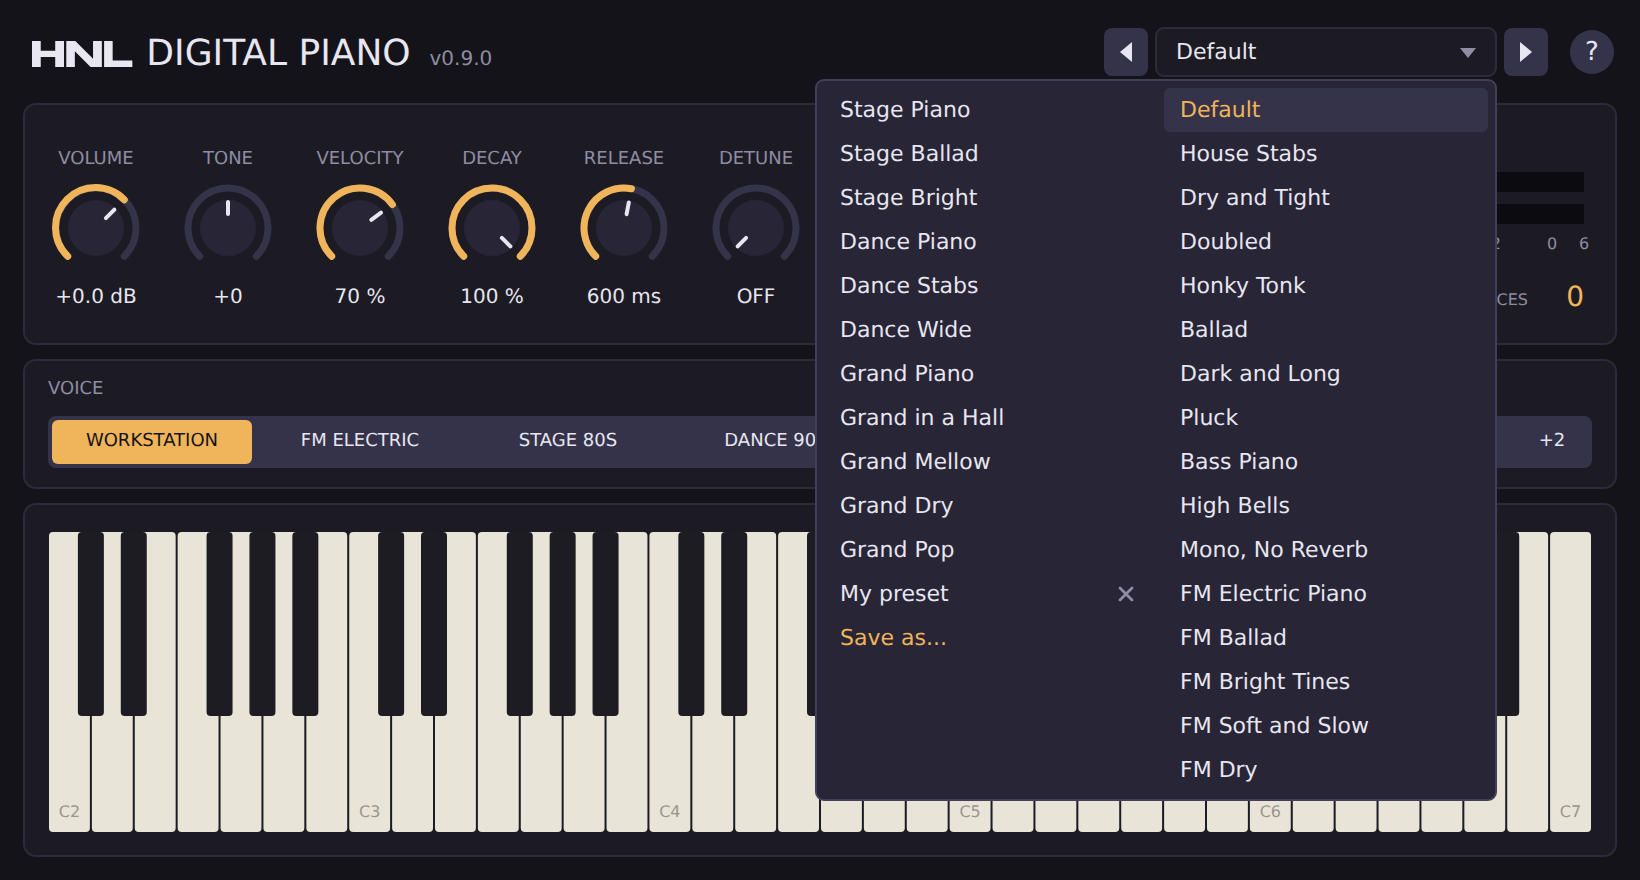
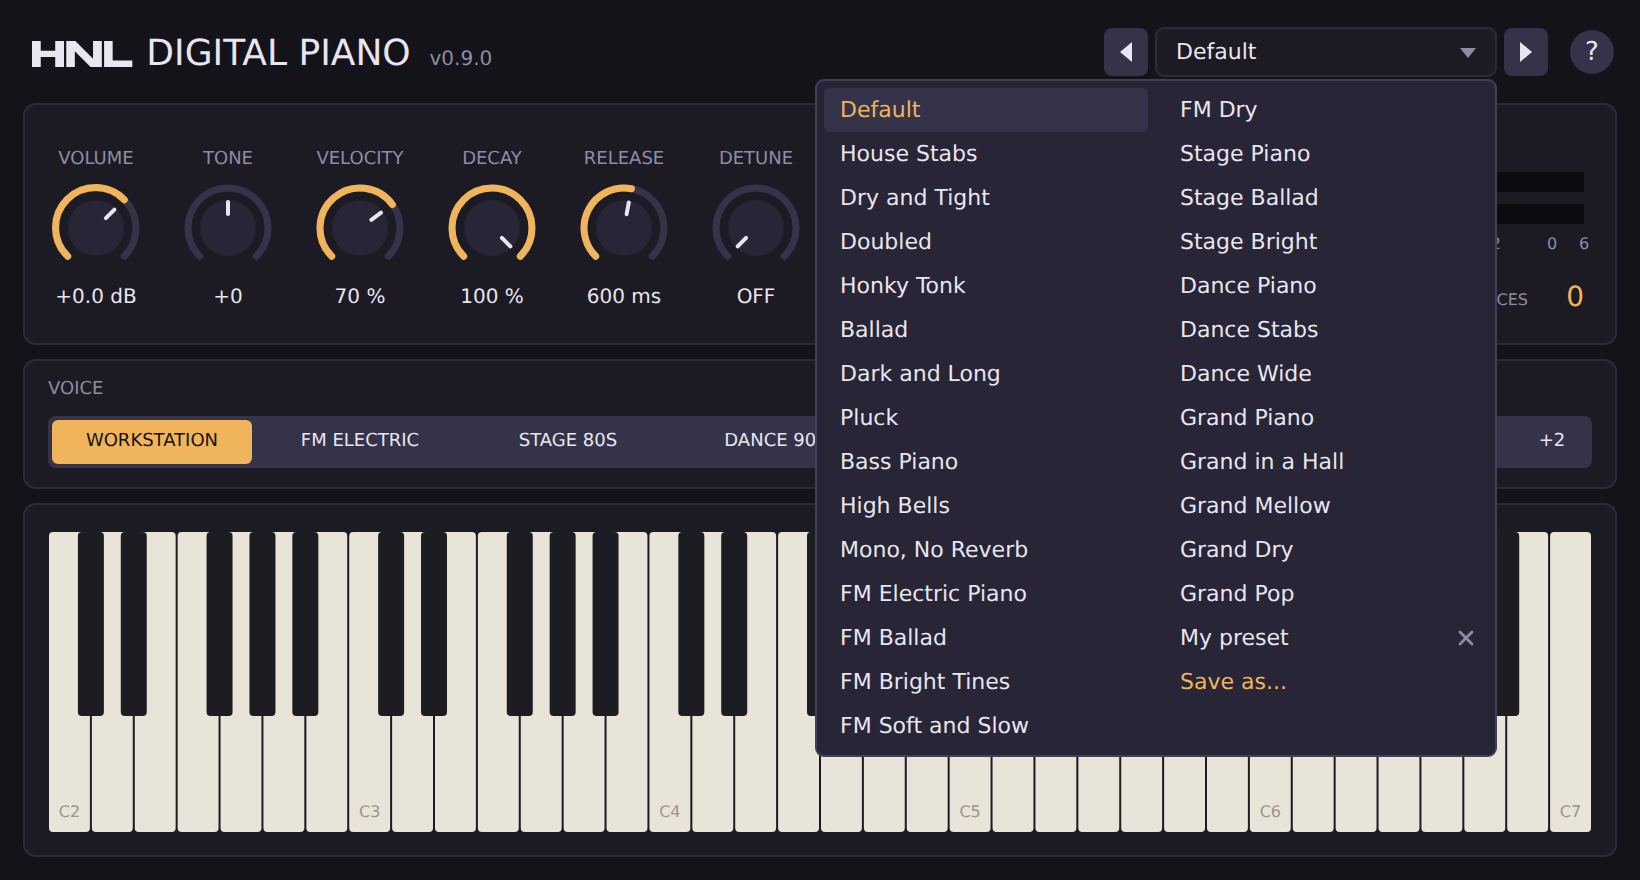
Preset menu: a long list is spread evenly over its columns, read from left to right
A list one row longer than a column left Save as... alone in a column of its own.

diff --git a/common/ui/Widgets.hpp b/common/ui/Widgets.hpp
@@ -349,14 +349,16 @@ private:
  * "Save as..." row; choosing it turns the name into a text box (Enter or the tick saves,
  * Escape or the cross leaves it). Presets from `firstUser` on are the user's own and have a
  * cross to delete them, which asks once more before it does. A list of more than kMaxRows
- * continues in further columns: to the right, or to the left when the bar stands so far to
- * the right that two more columns fit on its left (a bar next to the right edge). A bar that
- * was told the width of its window (moveTo) takes the side with the most room.
+ * is spread evenly over as many columns as it needs, read from left to right, so that no
+ * column is left with a row or two. The columns grow to the right of the bar, or to its left
+ * when the bar stands so far to the right that two more columns fit there (a bar next to the
+ * right edge). A bar that was told the width of its window (moveTo) takes the side with the
+ * most room.
  */
 class PresetBar {
 public:
     static constexpr float kWidth = 222, kHeight = 24, kRow = 22;
-    static constexpr int kMaxRows = 16; // a longer list continues in a further column
+    static constexpr int kMaxRows = 16; // a longer list is spread over more columns
     static constexpr size_t kMaxText = 20; // characters in a name
     /** mouseDown and key results below zero. kSave: text() is the name. kDelete: target() is the preset. kEdit: call startEdit(). */
     enum { kNotMine = -2, kHandled = -1, kSave = -3, kDelete = -4, kEdit = -5 };
@@ -379,13 +381,18 @@ public:
     const std::string& text() const { return text_; }
     int target() const { return target_; }
 
-    /** Where things are, for the tests. */
-    Box rowBox(int row) const {
-        const Box m = menuOrigin();
-        return {m.x + (leftward() ? -1 : 1) * (row / kMaxRows) * name_.w, m.y + 4 + (row % kMaxRows) * kRow, name_.w, kRow};
+    /** How many columns a list of `rows` rows (the presets and Save as...) takes, and how many rows stand in each. */
+    static int columnsFor(int rows) { return rows <= kMaxRows ? 1 : (rows + kMaxRows - 1) / kMaxRows; }
+    static int rowsPerColumn(int rows) { return (rows + columnsFor(rows) - 1) / columnsFor(rows); }
+
+    /** Where things are in a list of `rows` rows, for drawing and for the tests. */
+    Box rowBox(int row, int rows) const {
+        const Box m = menuBox(rows);
+        const int each = rowsPerColumn(rows);
+        return {m.x + (row / each) * name_.w, m.y + 4 + (row % each) * kRow, name_.w, kRow};
     }
-    Box deleteBox(int row) const {
-        const Box r = rowBox(row);
+    Box deleteBox(int row, int rows) const {
+        const Box r = rowBox(row, rows);
         return {r.x + r.w - 26, r.y, 22, kRow};
     }
     const Box& cancelBox() const { return prev_; }
@@ -410,7 +417,7 @@ public:
         }
         if (open_) {
             const int row = rowAt(x, y, count + 1);
-            if (row >= firstUser && row < count && deleteBox(row).contains(x, y)) {
+            if (row >= firstUser && row < count && deleteBox(row, count + 1).contains(x, y)) {
                 if (confirm_ != row) {
                     confirm_ = row;
                     return kHandled;
@@ -520,7 +527,7 @@ public:
         c.strokeWidth(1);
         c.stroke();
         for (int i = 0; i <= count; ++i) {
-            const Box r = rowBox(i);
+            const Box r = rowBox(i, count + 1);
             if (i == hover_) {
                 c.beginPath();
                 c.roundedRect(r.x + 4, r.y, r.w - 8, kRow, 3);
@@ -557,17 +564,17 @@ private:
     bool leftward() const { return canvas_ > 0 ? name_.x > canvas_ - name_.x - name_.w : name_.x >= 2 * name_.w; }
     Box menuOrigin() const { return {name_.x, name_.y + name_.h + 2, 0, 0}; }
     Box menuBox(int rows) const {
-        const int shown = rows < kMaxRows ? rows : kMaxRows, columns = (rows + kMaxRows - 1) / kMaxRows;
+        const int columns = columnsFor(rows);
         const Box o = menuOrigin();
-        return {leftward() ? o.x - name_.w * (columns - 1) : o.x, o.y, name_.w * columns, shown * kRow + 8};
+        return {leftward() ? o.x - name_.w * (columns - 1) : o.x, o.y, name_.w * columns, rowsPerColumn(rows) * kRow + 8};
     }
     int rowAt(float x, float y, int rows) const {
         const Box m = menuBox(rows);
         if (!m.contains(x, y)) return -1;
-        const int across = static_cast<int>((x - m.x) / name_.w), columns = (rows + kMaxRows - 1) / kMaxRows;
-        const int row = static_cast<int>((y - m.y - 4) / kRow), column = leftward() ? columns - 1 - across : across;
-        if (row < 0 || row >= kMaxRows) return -1;
-        const int index = column * kMaxRows + row;
+        const int column = static_cast<int>((x - m.x) / name_.w), each = rowsPerColumn(rows);
+        const int row = static_cast<int>((y - m.y - 4) / kRow);
+        if (row < 0 || row >= each) return -1;
+        const int index = column * each + row;
         return index < 0 || index >= rows ? -1 : index;
     }
 

diff --git a/common/tests/presets_test.cpp b/common/tests/presets_test.cpp
@@ -149,6 +149,28 @@ static void testNoFolder() {
     check(list.count() == 2 && list.save("Nowhere", values) == -1 && list.count() == 2, "a folder that cannot be made: saving fails, nothing else does");
 }
 
+/** A list too long for one column is spread evenly, so that Save as... never stands in a column of its own. */
+static void testLongList() {
+    typedef hnl::ui::PresetBar Bar;
+    check(Bar::columnsFor(Bar::kMaxRows) == 1 && Bar::rowsPerColumn(Bar::kMaxRows) == Bar::kMaxRows, "long list: up to the most rows, one column");
+    check(Bar::columnsFor(17) == 2 && Bar::rowsPerColumn(17) == 9, "long list: 17 rows are 9 and 8, not 16 and 1");
+    check(Bar::columnsFor(48) == 3 && Bar::rowsPerColumn(48) == 16, "long list: the fullest list is three full columns");
+    for (float barX : {100.0f, 552.0f}) { // columns to the right of the bar, and to its left
+        Bar bar(barX, 10);
+        const hnl::ui::Box name = bar.nameBox();
+        const int count = 16; // rows 0..15 presets, row 16 "Save as..."
+        const hnl::ui::Box first = bar.rowBox(0, count + 1), ninth = bar.rowBox(8, count + 1), tenth = bar.rowBox(9, count + 1), save = bar.rowBox(count, count + 1);
+        check(ninth.x == first.x && tenth.x == first.x + first.w && tenth.y == first.y, "long list: the tenth row starts the second column, to the right of the first");
+        check(save.x == tenth.x && save.y == first.y + 7 * Bar::kRow, "long list: Save as... is the eighth row of the second column");
+        bar.mouseDown(name.x + 20, name.y + 10, 0, count, count, true);
+        check(bar.mouseDown(save.x + 30, save.y + 11, 0, count, count, true) == Bar::kEdit, "long list: a click on it asks for a name");
+        bar.mouseDown(name.x + 20, name.y + 10, 0, count, count, true);
+        check(bar.mouseDown(tenth.x + 30, tenth.y + 11, 0, count, count, true) == 9, "long list: a click on the tenth row picks the tenth preset");
+        bar.mouseDown(name.x + 20, name.y + 10, 0, count, count, true);
+        check(bar.mouseDown(save.x + 30, save.y + Bar::kRow + 11, 0, count, count, true) < 0 && !bar.isOpen(), "long list: the empty place under it picks nothing");
+    }
+}
+
 static void testBar() {
     typedef hnl::ui::PresetBar Bar;
     Bar bar(100, 10);
@@ -160,25 +182,25 @@ static void testBar() {
 
     check(bar.mouseDown(5, 5, 0, count, firstUser, true) == Bar::kNotMine, "bar: a click elsewhere is not its business");
     check(bar.mouseDown(nx, ny, 0, count, firstUser, true) == Bar::kHandled && bar.isOpen(), "bar: the name opens the list");
-    centre(bar.rowBox(4), x, y);
+    centre(bar.rowBox(4, count + 1), x, y);
     check(bar.mouseDown(x, y, 0, count, firstUser, true) == 4 && !bar.isOpen(), "bar: a row picks its preset");
 
     bar.mouseDown(nx, ny, 0, count, firstUser, true);
-    centre(bar.deleteBox(4), x, y);
-    x = bar.deleteBox(4).x + 11;
+    centre(bar.deleteBox(4, count + 1), x, y);
+    x = bar.deleteBox(4, count + 1).x + 11;
     check(bar.mouseDown(x, y, 0, count, firstUser, true) == Bar::kHandled && bar.isOpen(), "bar: the cross asks first");
     check(bar.mouseDown(x, y, 0, count, firstUser, true) == Bar::kDelete && bar.target() == 4 && !bar.isOpen(), "bar: the cross again deletes");
     bar.mouseDown(nx, ny, 0, count, firstUser, true);
     bar.mouseDown(x, y, 0, count, firstUser, true);
-    centre(bar.rowBox(3), x, y);
+    centre(bar.rowBox(3, count + 1), x, y);
     check(bar.mouseDown(x, y, 0, count, firstUser, true) == 3, "bar: after the question a click on another row just picks it");
     bar.mouseDown(nx, ny, 0, count, firstUser, true);
-    x = bar.deleteBox(1).x + 11;
-    y = bar.deleteBox(1).y + 11;
+    x = bar.deleteBox(1, count + 1).x + 11;
+    y = bar.deleteBox(1, count + 1).y + 11;
     check(bar.mouseDown(x, y, 0, count, firstUser, true) == 1, "bar: a factory preset has no cross");
 
     bar.mouseDown(nx, ny, 0, count, firstUser, false);
-    centre(bar.rowBox(count), x, y);
+    centre(bar.rowBox(count, count + 1), x, y);
     check(bar.mouseDown(x, y, 0, count, firstUser, false) == Bar::kHandled && !bar.isEditing(), "bar: Save as does nothing when the list is full");
     bar.mouseDown(nx, ny, 0, count, firstUser, true);
     check(bar.mouseDown(x, y, 0, count, firstUser, true) == Bar::kEdit, "bar: Save as asks for a name");
@@ -226,6 +248,7 @@ int main() {
     testList(dir);
     testNoFolder();
     testBar();
+    testLongList();
     fs::remove_all(dir);
     std::printf("%s\n", failures ? "FAILED" : "ALL PASSED");
     return failures ? 1 : 0;

diff --git a/common/tests/ui_presets_test.cpp b/common/tests/ui_presets_test.cpp
@@ -108,7 +108,7 @@ int main() {
     // Save as..., type a name, Enter.
     click(ui, bar(ui).nameBox());
     check(shows(ui, "Save as..."), "the list ends with Save as...");
-    click(ui, bar(ui).rowBox(factory));
+    click(ui, bar(ui).rowBox(factory, factory + 1));
     check(shows(ui, "My preset|") && ui->window.focused, "Save as... opens a name box with a suggestion and takes the keyboard");
     for (int i = 0; i < 9; ++i) key(ui, 0x08);
     type(ui, "Mix/ A");
@@ -122,12 +122,12 @@ int main() {
     check(shows(ui, "Mix A *"), "a moved control puts a * after the user's preset too");
     ui->sentParameters.clear();
     click(ui, bar(ui).nameBox());
-    click(ui, bar(ui).rowBox(factory));
+    click(ui, bar(ui).rowBox(factory, factory + 2));
     check(sent(ui, a, -1e9f) == aSaved && shows(ui, "Mix A"), "choosing the saved preset sends the saved value");
 
     // A factory preset, then the user's one through the arrows.
     click(ui, bar(ui).nameBox());
-    click(ui, bar(ui).rowBox(0));
+    click(ui, bar(ui).rowBox(0, factory + 2));
     check(ui->sentState == std::string("preset=") + presets::kAll[0].name, "factory presets still load");
     ui->sentParameters.clear();
     click(ui, bar(ui).cancelBox()); // the previous arrow: from the first to the last, the saved one
@@ -146,21 +146,21 @@ int main() {
 
     // Without a keyboard: the tick saves under the suggested name.
     click(other, bar(other).nameBox());
-    click(other, bar(other).rowBox(factory + 1));
+    click(other, bar(other).rowBox(factory + 1, factory + 2));
     click(other, bar(other).saveBox());
     check(fs::exists(dir / "My preset.hnlpreset") && other->sentState == "preset=My preset", "the tick saves without a single key");
 
     // The first window sees it when its list is opened, and can delete it.
     click(ui, bar(ui).nameBox());
     check(shows(ui, "My preset"), "the first window lists what the second saved");
-    click(ui, bar(ui).deleteBox(factory + 1), 0.5f);
+    click(ui, bar(ui).deleteBox(factory + 1, factory + 3), 0.5f);
     check(fs::exists(dir / "My preset.hnlpreset") && shows(ui, "Delete? Click x again"), "the cross asks before it deletes");
-    click(ui, bar(ui).deleteBox(factory + 1), 0.5f);
+    click(ui, bar(ui).deleteBox(factory + 1, factory + 3), 0.5f);
     check(!fs::exists(dir / "My preset.hnlpreset") && fs::exists(dir / "Mix A.hnlpreset"), "the cross again deletes that preset and no other");
 
     // Escape and a click elsewhere leave the name box without saving.
     click(ui, bar(ui).nameBox());
-    click(ui, bar(ui).rowBox(factory + 1));
+    click(ui, bar(ui).rowBox(factory + 1, factory + 2));
     type(ui, "zzz");
     check(key(ui, 0x1B) && !fs::exists(dir / "Mix Azzz.hnlpreset") && shows(ui, "Mix A"), "Escape saves nothing");
     check(!key(ui, 0x1B) && !key(ui, 'a'), "keys go back to the host when no name is being typed");
@@ -168,7 +168,7 @@ int main() {
     // Saving over the user's own preset keeps one file.
     ui->parameterChanged(a, info(a).max);
     click(ui, bar(ui).nameBox());
-    click(ui, bar(ui).rowBox(factory + 1));
+    click(ui, bar(ui).rowBox(factory + 1, factory + 2));
     check(shows(ui, "Mix A|"), "Save as... on the user's preset suggests its own name");
     key(ui, 0x0D);
     int files = 0;

diff --git a/plugins/hnl-bus-compressor/tests/preview.cpp b/plugins/hnl-bus-compressor/tests/preview.cpp
@@ -50,8 +50,8 @@ int main(int argc, char** argv) {
         click.pos.y = 26;
         ui->onMouse(click);
         const int row = presets::list().count(); // Save as... follows the last preset
-        click.pos.x -= (row / hnl::ui::PresetBar::kMaxRows) * 170; // further columns lie to the left
-        click.pos.y = 44 + (row % hnl::ui::PresetBar::kMaxRows) * hnl::ui::PresetBar::kRow + 11;
+        // The last row stands in the last column, which is the one under the name (further columns lie to its left).
+        click.pos.y = 44 + (row % hnl::ui::PresetBar::rowsPerColumn(row + 1)) * hnl::ui::PresetBar::kRow + 11;
         ui->onMouse(click);
     }
     if (mode == "arc" || mode == "leds") ui->stateChanged("meter", mode.c_str()); // the other two meter designs, as a song that stored one opens

diff --git a/plugins/hnl-tape-master/tests/preview.cpp b/plugins/hnl-tape-master/tests/preview.cpp
@@ -47,8 +47,8 @@ int main(int argc, char** argv) {
         click.pos.y = 26;
         ui->onMouse(click);
         const int row = presets::list().count(); // Save as... follows the last preset
-        click.pos.x -= (row / hnl::ui::PresetBar::kMaxRows) * 170; // further columns lie to the left
-        click.pos.y = 44 + (row % hnl::ui::PresetBar::kMaxRows) * hnl::ui::PresetBar::kRow + 11;
+        // The last row stands in the last column, which is the one under the name (further columns lie to its left).
+        click.pos.y = 44 + (row % hnl::ui::PresetBar::rowsPerColumn(row + 1)) * hnl::ui::PresetBar::kRow + 11;
         ui->onMouse(click);
     }
     if (mode == "arc" || mode == "leds") ui->stateChanged("meter", mode.c_str()); // the other two meter designs, as a song that stored one opens

diff --git a/plugins/hnl-transient-shaper/tests/preview.cpp b/plugins/hnl-transient-shaper/tests/preview.cpp
@@ -50,8 +50,8 @@ int main(int argc, char** argv) {
         click.pos.y = 26;
         ui->onMouse(click);
         const int row = presets::list().count(); // Save as... follows the last preset
-        click.pos.x -= (row / hnl::ui::PresetBar::kMaxRows) * 170; // further columns lie to the left
-        click.pos.y = 44 + (row % hnl::ui::PresetBar::kMaxRows) * hnl::ui::PresetBar::kRow + 11;
+        // The last row stands in the last column, which is the one under the name (further columns lie to its left).
+        click.pos.y = 44 + (row % hnl::ui::PresetBar::rowsPerColumn(row + 1)) * hnl::ui::PresetBar::kRow + 11;
         ui->onMouse(click);
     }
     if (mode == "arc" || mode == "leds") ui->stateChanged("meter", mode.c_str()); // the other two meter designs, as a song that stored one opens

diff --git a/plugins/hnl-channel-spacer/tests/preview.cpp b/plugins/hnl-channel-spacer/tests/preview.cpp
@@ -59,8 +59,8 @@ int main(int argc, char** argv) {
         click.pos.y = 26;
         ui->onMouse(click);
         const int row = presets::list().count(); // Save as... follows the last preset
-        click.pos.x -= (row / hnl::ui::PresetBar::kMaxRows) * 170; // further columns lie to the left
-        click.pos.y = 44 + (row % hnl::ui::PresetBar::kMaxRows) * hnl::ui::PresetBar::kRow + 11;
+        // The last row stands in the last column, which is the one under the name (further columns lie to its left).
+        click.pos.y = 44 + (row % hnl::ui::PresetBar::rowsPerColumn(row + 1)) * hnl::ui::PresetBar::kRow + 11;
         ui->onMouse(click);
     }
     ui->onNanoDisplay();

diff --git a/plugins/hnl-digital-piano/tests/preview.cpp b/plugins/hnl-digital-piano/tests/preview.cpp
@@ -56,8 +56,8 @@ int main(int argc, char** argv) {
         click.pos.y = 26;
         ui->onMouse(click);
         const int row = presets::list().count(); // Save as... follows the last preset
-        click.pos.x -= (row / hnl::ui::PresetBar::kMaxRows) * 170; // further columns lie to the left
-        click.pos.y = 44 + (row % hnl::ui::PresetBar::kMaxRows) * hnl::ui::PresetBar::kRow + 11;
+        // The last row stands in the last column, which is the one under the name (further columns lie to its left).
+        click.pos.y = 44 + (row % hnl::ui::PresetBar::rowsPerColumn(row + 1)) * hnl::ui::PresetBar::kRow + 11;
         ui->onMouse(click);
     }
     ui->onNanoDisplay();

diff --git a/plugins/hnl-leveller/tests/preview.cpp b/plugins/hnl-leveller/tests/preview.cpp
@@ -62,8 +62,8 @@ int main(int argc, char** argv) {
         click.pos.y = 26;
         ui->onMouse(click);
         const int row = presets::list().count(); // Save as... follows the last preset
-        click.pos.x -= (row / hnl::ui::PresetBar::kMaxRows) * 170; // further columns lie to the left
-        click.pos.y = 44 + (row % hnl::ui::PresetBar::kMaxRows) * hnl::ui::PresetBar::kRow + 11;
+        // The last row stands in the last column, which is the one under the name (further columns lie to its left).
+        click.pos.y = 44 + (row % hnl::ui::PresetBar::rowsPerColumn(row + 1)) * hnl::ui::PresetBar::kRow + 11;
         ui->onMouse(click);
     }
     ui->onNanoDisplay();

diff --git a/plugins/hnl-master/tests/preview.cpp b/plugins/hnl-master/tests/preview.cpp
@@ -60,8 +60,8 @@ int main(int argc, char** argv) {
         click.pos.y = 26;
         ui->onMouse(click);
         const int row = presets::list().count(); // Save as... follows the last preset
-        click.pos.x -= (row / hnl::ui::PresetBar::kMaxRows) * 170; // further columns lie to the left
-        click.pos.y = 44 + (row % hnl::ui::PresetBar::kMaxRows) * hnl::ui::PresetBar::kRow + 11;
+        // The last row stands in the last column, which is the one under the name (further columns lie to its left).
+        click.pos.y = 44 + (row % hnl::ui::PresetBar::rowsPerColumn(row + 1)) * hnl::ui::PresetBar::kRow + 11;
         ui->onMouse(click);
     }
     ui->onNanoDisplay();

diff --git a/plugins/hnl-tape-echo/tests/preview.cpp b/plugins/hnl-tape-echo/tests/preview.cpp
@@ -51,8 +51,8 @@ int main(int argc, char** argv) {
         click.pos.y = 26;
         ui->onMouse(click);
         const int row = presets::list().count(); // Save as... follows the last preset
-        click.pos.x -= (row / hnl::ui::PresetBar::kMaxRows) * 170; // further columns lie to the left
-        click.pos.y = 44 + (row % hnl::ui::PresetBar::kMaxRows) * hnl::ui::PresetBar::kRow + 11;
+        // The last row stands in the last column, which is the one under the name (further columns lie to its left).
+        click.pos.y = 44 + (row % hnl::ui::PresetBar::rowsPerColumn(row + 1)) * hnl::ui::PresetBar::kRow + 11;
         ui->onMouse(click);
     }
     ui->onNanoDisplay();

diff --git a/plugins/hnl-thickener/tests/preview.cpp b/plugins/hnl-thickener/tests/preview.cpp
@@ -53,8 +53,8 @@ int main(int argc, char** argv) {
         click.pos.y = 26;
         ui->onMouse(click);
         const int row = presets::list().count(); // Save as... follows the last preset
-        click.pos.x -= (row / hnl::ui::PresetBar::kMaxRows) * 170; // further columns lie to the left
-        click.pos.y = 44 + (row % hnl::ui::PresetBar::kMaxRows) * hnl::ui::PresetBar::kRow + 11;
+        // The last row stands in the last column, which is the one under the name (further columns lie to its left).
+        click.pos.y = 44 + (row % hnl::ui::PresetBar::rowsPerColumn(row + 1)) * hnl::ui::PresetBar::kRow + 11;
         ui->onMouse(click);
     }
     ui->onNanoDisplay();
